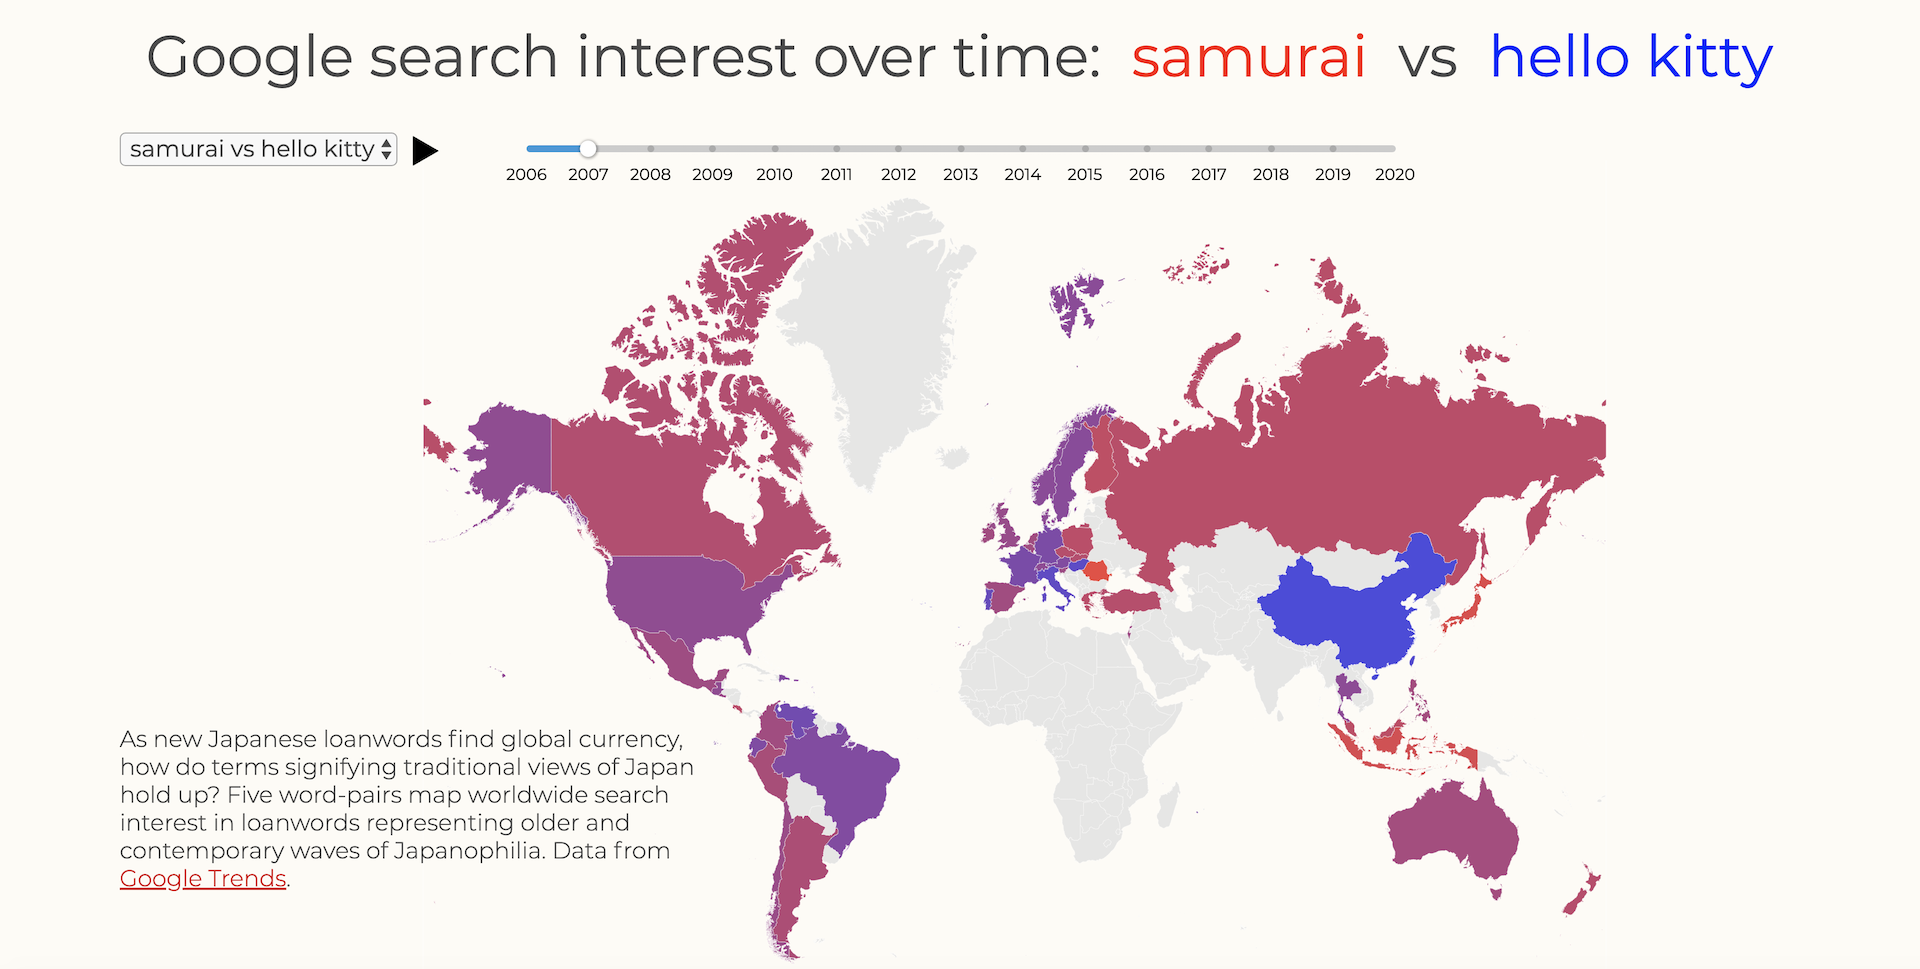
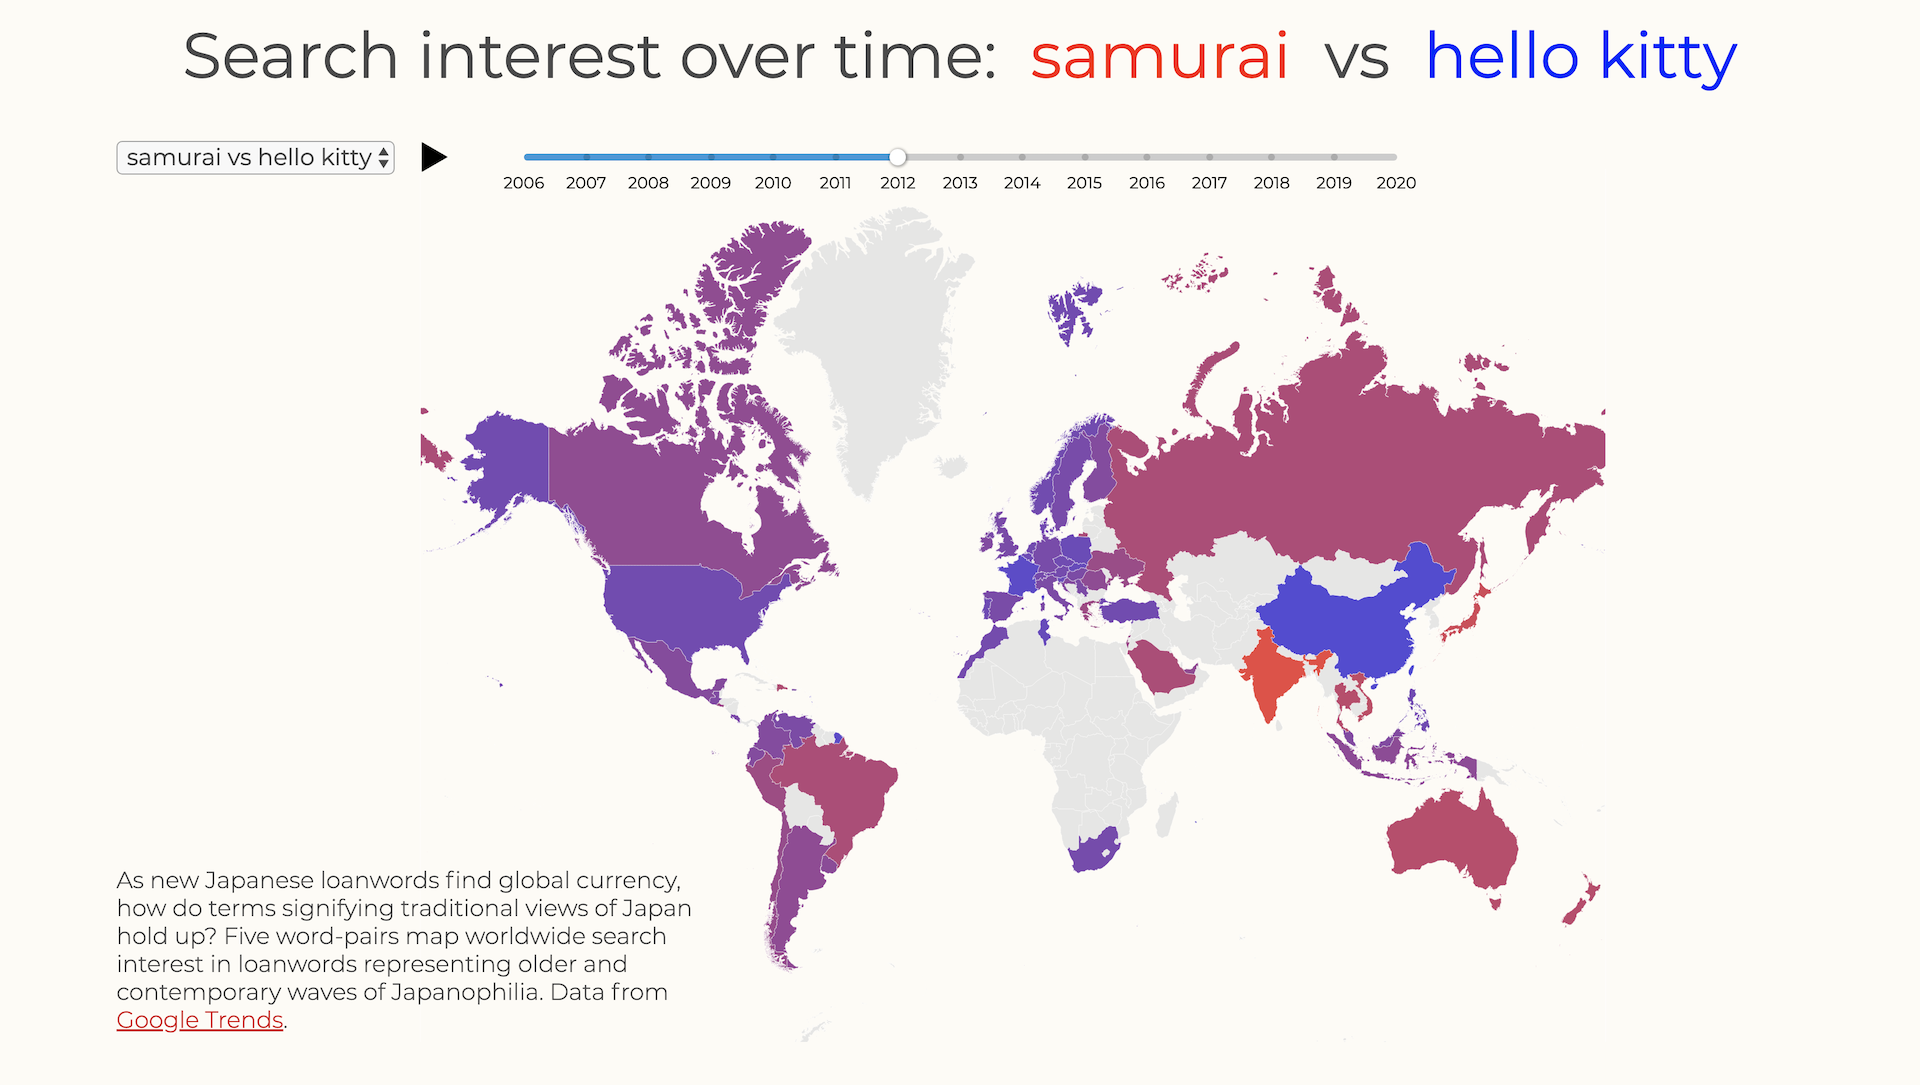
new pics and style updates

diff --git a/turning-japanese/index.html b/turning-japanese/index.html
@@ -5,12 +5,12 @@
     <meta charset="utf-8">
     <title>Turning Japanese</title>
     <link rel="stylesheet" href="css/styles.css">
+    <link href="https://fonts.googleapis.com/css?family=Sawarabi+Mincho" rel="stylesheet">
     <link href="https://fonts.googleapis.com/css2?family=Montserrat:wght@100;200;300;400;500;600;700;900&display=swap"
         rel="stylesheet">
      <link
         href="https://fonts.googleapis.com/css2?family=Faster+One&family=Taviraj:ital,wght@0,300;0,400;0,600;0,700;1,400&family=Trade+Winds&display=swap"
         rel="stylesheet">
-
     <script src="https://cdn.jsdelivr.net/npm/vue/dist/vue.js"></script>
     <script src="https://d3js.org/d3.v4.min.js"></script>
     <script src="https://code.jquery.com/jquery-3.5.0.min.js" integrity="sha256-xNzN2a4ltkB44Mc/Jz3pT4iU1cmeR0FkXs4pru/JxaQ=" crossorigin="anonymous"></script>

diff --git a/turning-japanese/css/styles1.css b/turning-japanese/css/styles1.css
@@ -37,7 +37,7 @@ map {
     margin-left: -100px;
     font-size: 30px;
     position: relative;
-    top: -18px;
+    top: -22px;
     color: black;
 }
 
@@ -47,14 +47,14 @@ map {
 
 .firstword {
     color: rgb(35, 139, 69);
-    font-size: 50px;
+    font-size: 55px;
 }
 
 .words {
     width: auto;
     display: flex;
     justify-content: center;
-    font-size: 50px;
+    font-size: 55px;
     font-family: 'Montserrat', sans-serif;
     font-weight: 400;
     color: rgb(75, 75, 75);

diff --git a/turning-japanese/css/styles2.css b/turning-japanese/css/styles2.css
@@ -33,10 +33,10 @@ map {
 }
 
 .button {
-    margin-left: -100px;
+    margin-left: -90px;
     font-size: 30px;
     position: relative;
-    top: -18px;
+    top: -20px;
 }
 
 .button:hover {
@@ -55,7 +55,7 @@ map {
     width: auto;
     display: flex;
     justify-content: center;
-    font-size: 50px;
+    font-size: 55px;
     font-family: 'Montserrat', sans-serif;
     font-weight: 400;
     color: rgb(75, 75, 75);

diff --git a/turning-japanese/index2.html b/turning-japanese/index2.html
@@ -18,7 +18,7 @@
 
     <div id="app">
         <div class="words">
-            <p>Google search interest over time:&nbsp;&nbsp;</p>
+            <p>Search interest over time:&nbsp;&nbsp;</p>
             <p class="firstword">{{wordOne}}</p>
             <p>&nbsp; vs &nbsp;</p>
             <p class="secondword">{{wordTwo}}</p>

diff --git a/turning-japanese/index1.html b/turning-japanese/index1.html
@@ -19,7 +19,7 @@
 
     <div id="app">
         <div class="words">
-            <p>Google Search interest over time:&nbsp;&nbsp;</p>
+            <p>Search interest over time:&nbsp;&nbsp;</p>
             <p class="firstword">{{titleWord}}</p>
         </div>
         <select class="wordchoice" v-on:change="wordchoice">

diff --git a/turning-japanese/css/styles.css b/turning-japanese/css/styles.css
@@ -56,6 +56,7 @@ p {
     font-size: 40px;
     font-weight: 300;
     opacity: 0.2;
+    font-family: "Sawarabi Mincho"; 
 }
 
 .title {
@@ -79,7 +80,7 @@ p {
 .flag {
     position: relative;
     top: 420px;
-    width: 8%;
+    width: 10%;
     display: block;
     margin-left: auto;
     margin-right: auto;
